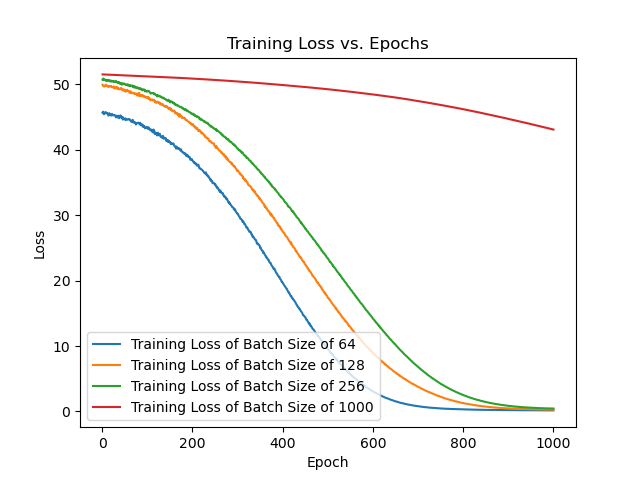
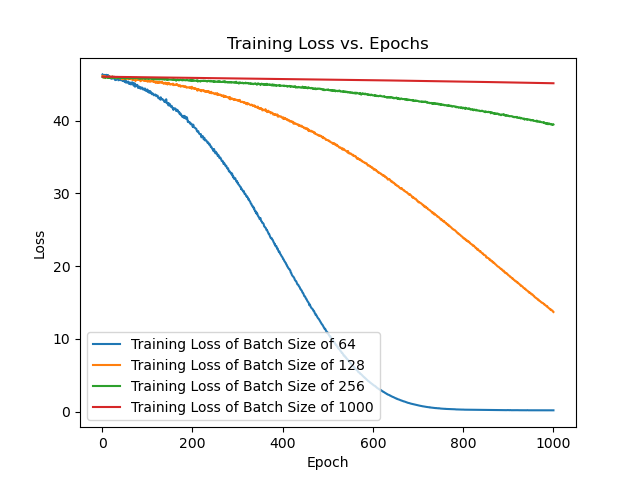
fixing task 1.4

diff --git a/task1.py b/task1.py
@@ -70,42 +70,44 @@ q_real_corrected_batchsize_256 = []
 q_real_corrected_batchsize_1000 = []
 epochs = 1000
 batch_sizes = [64, 128, 256, 1000]
-for batchsize in batch_sizes:    
-    for i in range(num_samples):
-        # PD control output
-        tau = k_p * (q_target[i] - q) + k_d * (dot_q_target[i] - dot_q)
-        # Ideal motor dynamics (variable mass for realism)
-        #m_real = m * (1 + 0.1 * np.random.randn())  # Mass varies by +/-10%
-        ddot_q_real = (tau - b * dot_q) / m
-        
-        # Calculate error
-        ddot_q_ideal = (tau) / m
-        ddot_q_error = ddot_q_ideal - ddot_q_real
-        
-        # Store data
-        X.append([q, dot_q, q_target[i], dot_q_target[i]])
-        Y.append(ddot_q_error)
-        
-        # Update state
-        dot_q += ddot_q_real * dt
-        q += dot_q * dt
-    
+for i in range(num_samples):
+    # PD control output
+    tau = k_p * (q_target[i] - q) + k_d * (dot_q_target[i] - dot_q)
+    # Ideal motor dynamics (variable mass for realism)
+    #m_real = m * (1 + 0.1 * np.random.randn())  # Mass varies by +/-10%
+    ddot_q_real = (tau - b * dot_q) / m
+
+    # Calculate error
+    ddot_q_ideal = (tau) / m
+    ddot_q_error = ddot_q_ideal - ddot_q_real
+
+    # Store data
+    X.append([q, dot_q, q_target[i], dot_q_target[i]])
+    Y.append(ddot_q_error)
+
+    # Update state
+    dot_q += ddot_q_real * dt
+    q += dot_q * dt
+
     # Convert data for PyTorch
-    X_tensor = torch.tensor(X, dtype=torch.float32)
-    Y_tensor = torch.tensor(Y, dtype=torch.float32).view(-1, 1)
-    
+X_tensor = torch.tensor(X, dtype=torch.float32)
+Y_tensor = torch.tensor(Y, dtype=torch.float32).view(-1, 1)
+
+for batchsize in batch_sizes:
+
     # Dataset and DataLoader
     dataset = TensorDataset(X_tensor, Y_tensor)
     train_loader = DataLoader(dataset, batch_size=batchsize, shuffle=True)
     
     # Model, Loss, Optimizer
-    # model = DeepCorrectorMLP(num_hidden_nodes = 32)
-    model = MLP()
+    model = DeepCorrectorMLP(num_hidden_nodes = 32)
+    # model = MLP()
     criterion = nn.MSELoss()
     optimizer = optim.Adam(model.parameters(), lr=0.00001)
     
     # Training Loop
     train_losses = []
+    print("Start Time now")
     start_time = time.time()
     for epoch in range(epochs):
         epoch_loss = 0
@@ -118,9 +120,11 @@ for batchsize in batch_sizes:
             epoch_loss += loss.item()
     
         train_losses.append(epoch_loss / len(train_loader))
-        print(f'Epoch {epoch+1}/{epochs}, Loss: {train_losses[-1]:.6f}')
+        #print(f'Epoch {epoch+1}/{epochs}, Loss: {train_losses[-1]:.6f}')
     end_time = time.time()
+    print("End now")
     total_training_time = end_time - start_time
+    print("Total: ", total_training_time)
     
     # Testing Phase: Simulate trajectory tracking
     q_test = 0
@@ -173,7 +177,7 @@ for batchsize in batch_sizes:
     plt.title(f'Deep Neural Network Logarithmic Training Loss vs. Epochs')
     plt.legend()
     plt.tight_layout()
-  #  plt.savefig(f'Figures/task1.4/Deep-network-log-loss-batch-size-{batchsize}-training-time-{total_training_time:.2f}.png')
+    plt.savefig(f'Figures/task1.4/Deep Network/Batch Size {batchsize}/Deep-network-log-loss-batch-size-{batchsize}-training-time-{total_training_time:.2f}.png')
     plt.close()
     
     plt.plot(np.linspace(1, epochs, epochs), train_losses, label='Training Loss')
@@ -182,7 +186,7 @@ for batchsize in batch_sizes:
     plt.title(f'Deep Neural Network Training Loss vs. Epochs')
     plt.legend()
     plt.tight_layout()
-    #plt.savefig(f'Figures/task1.4/Deep-network-loss-batch-size-{batchsize}-training-time-{total_training_time:.2f}.png')
+    plt.savefig(f'Figures/task1.4/Deep Network/Batch Size {batchsize}/Deep-network-loss-batch-size-{batchsize}-training-time-{total_training_time:.2f}.png')
     plt.close()
     
     # Plot results
@@ -194,7 +198,7 @@ for batchsize in batch_sizes:
     plt.xlabel('Time [s]')
     plt.ylabel('Position')
     plt.legend()
-   # plt.savefig(f'Figures/task1.4/Deep-network-batch-size-{batchsize}-training-time-{total_training_time:.2f}.png')
+    plt.savefig(f'Figures/task1.4/Deep Network/Batch Size {batchsize}/Deep-network-batch-size-{batchsize}-training-time-{total_training_time:.2f}.png')
     plt.tight_layout()
     plt.close()
 
@@ -206,7 +210,7 @@ plt.xlabel('Epoch')
 plt.ylabel('Loss')
 plt.title('Training Loss vs. Epochs')
 plt.legend(loc='lower left')
-plt.savefig(f'Figures/task1.4/Shallow Network/Training_Loss')
+plt.savefig(f'Figures/task1.4/Deep Network/Training_Loss')
 plt.show()
 
 
@@ -262,5 +266,5 @@ plt.xlabel("Epoch")
 plt.ylabel("Batch Size Configuration")
 plt.title("Training Loss Heatmap Across Batch Size Configurations and Epochs")
 plt.yticks([0, 1, 2, 3], ['Batch Size 64', 'Batch Size 128', 'Batch Size 256', 'Batch Size 1000'])
-plt.savefig('Figures/task1.4/Shallow Network/Training_Loss_Heatmap.png')
+plt.savefig('Figures/task1.4/Deep Network/Training_Loss_Heatmap.png')
 plt.show()
